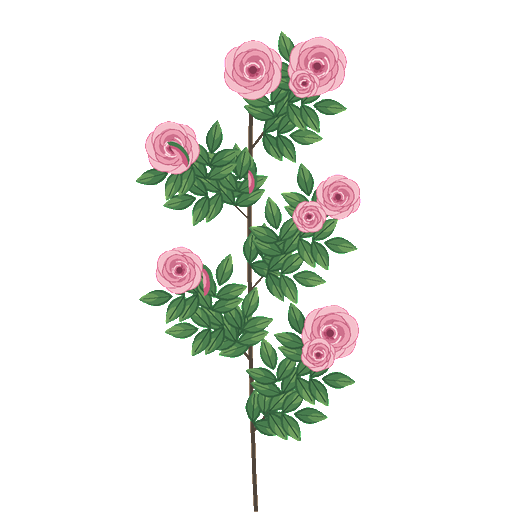
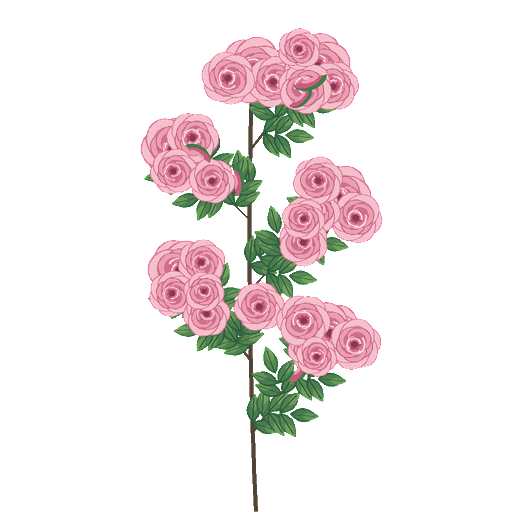
Florals test: rose bushes in full flower (bloom clusters at every tip, blooms or buds at every joint; 72% of the spray pink)
Claude-Session: https://claude.ai/code/session_012kUbpQBysxLxE8boLf2ucW

Changed region(s): [[0.25, 0.0312, 0.75, 0.875]]

diff --git a/tools/court/gen_ez_blossoms.py b/tools/court/gen_ez_blossoms.py
@@ -193,15 +193,25 @@ def spray_rose(cv, rng):
     main = twig(rng, 24, 70.0)
     cv.line(main, 4.0, rgb(STEM))
     branches = [main] + side(cv, main, rng, 5, 150)
-    rose_leaves(cv, branches, rng)
+    rose_leaves(cv, branches, rng, 0.85)
+    # A bush in full flower (owner 2026-11-11: it should read as roses, not a
+    # green shrub with pink flecks): a cluster of three or four big blooms at
+    # every tip and a bloom or a bud at every joint, so pink outweighs green.
     for i, br in enumerate(branches):
         p, a = along(br, 1.0)
-        rose_bloom(cv, p, rng.uniform(22, 30), cols, rng)
-        q, qa = along(br, 0.72)
-        if i % 2 == 0:
-            rose_bud(cv, (q[0] + rng.uniform(-10, 10), q[1]), qa + rng.uniform(-0.6, 0.6), rng.uniform(10, 13), cols)
-        else:
-            rose_bloom(cv, (q[0] + rng.uniform(-18, 18), q[1] - 6), rng.uniform(15, 19), cols, rng)
+        n = 3 + (i % 2)
+        for k in range(n):
+            ang = a + math.tau * k / n + rng.uniform(-0.3, 0.3)
+            off = 0.0 if k == 0 else rng.uniform(22, 30)
+            c = (p[0] + math.cos(ang) * off, p[1] + math.sin(ang) * off)
+            rose_bloom(cv, c, rng.uniform(26, 34) if k == 0 else rng.uniform(20, 27), cols, rng)
+        for t in (0.45, 0.7):
+            q, qa = along(br, t)
+            q = (q[0] + rng.uniform(-16, 16), q[1] - 6)
+            if rng.uniform() < 0.35:
+                rose_bud(cv, q, qa + rng.uniform(-0.6, 0.6), rng.uniform(11, 14), cols)
+            else:
+                rose_bloom(cv, q, rng.uniform(19, 25), cols, rng)
 
 
 def spray_wildrose(cv, rng):
